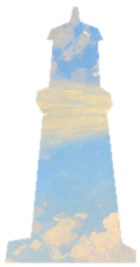
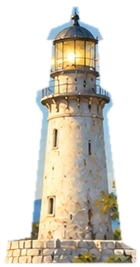
Correct lighthouse artwork crop and its home destination

diff --git a/public/raising.html b/public/raising.html
@@ -1,3 +1,3 @@
 <!doctype html><html lang="es" class="atlas-html"><head><meta charset="utf-8"><meta name="viewport" content="width=device-width,initial-scale=1"><title>Startup Scouting</title><link rel="stylesheet" href="/styles.css"><style>.role-fit{margin-top:44px;max-width:670px;border-top:1px solid #b69a67;padding-top:22px}.role-fit p{color:#aaa69f;font-size:15px;line-height:1.65;margin:0 0 12px}.role-fit p b{color:#e9e5dc;font-weight:400}.founder-screen{margin-top:34px;max-width:670px}.founder-screen summary{cursor:pointer;color:#b69a67;font-size:13px;letter-spacing:.06em}.fs-form{display:grid;gap:10px;margin-top:16px}.fs-form label{font-size:11px;letter-spacing:.12em;text-transform:uppercase;color:#77736d}.fs-form input[type=text],.fs-form input[type=url],.fs-form textarea{background:#171713;border:1px solid #373630;color:#e9e5dc;padding:11px 13px;font-size:15px;border-radius:0}.fs-form input[type=file]{color:#aaa69f;font-size:13px}.fs-form button{margin-top:8px;background:#b69a67;color:#11110f;border:0;padding:13px 22px;font-size:15px;cursor:pointer}.fs-form .form-note{font-size:13px;color:#c2a24a;min-height:18px;margin:0}.role-tools{margin-top:26px;max-width:670px}.role-tools a{display:flex;align-items:baseline;gap:20px;padding:15px 0;border-bottom:1px solid rgba(233,229,220,.16);color:#b69a67;text-decoration:none;font:400 18px Georgia,serif}.role-tools a:first-child{border-top:1px solid rgba(233,229,220,.16)}.role-tools a .num{color:#77736d;font:400 11px Arial,sans-serif;letter-spacing:.12em;flex:0 0 26px}.role-tools a:hover .num{color:#b69a67}.role-tools a:hover .num+span{text-decoration:underline}</style><link rel="stylesheet" href="/site-navigation.css?v=1">
 <link rel="stylesheet" href="/painted-landing.css?v=2"><link rel="icon" type="image/svg+xml" href="/favicon.svg"><link rel="stylesheet" href="/painted-atlas.css?v=4"><link rel="stylesheet" href="/art-direction.css?v=2"></head><body class="atlas painted-landing gateway-page role-page" data-role="founder"><main class="gateway"><nav><a id="role-back" href="/?lang=es#entry">← Elegir de nuevo</a><span>Startup Scouting</span></nav><section><p id="role-k">PARA FOUNDERS</p><h1 id="role-h">Tu idea. Tu siguiente paso.</h1><p class="role-copy" id="role-p">Pon a prueba lo que construyes y decide cómo seguir. Con ronda o sin ella.</p><a class="role-cta" id="role-cta" href="/founder-intake.html?lang=es">Empezar por aquí →</a><details class="more-context founder-screen"><summary><span id="fs-sum">Análisis de web y deck: en pruebas</span></summary><form id="fscreen-form" class="fs-form"><label for="fs-url" id="fs-l-url">Web de tu startup</label><input disabled type="text" id="fs-url" placeholder="https://www.tustartup.com" required /><label for="fs-deck" id="fs-l-deck">Pitch deck (PDF, opcional)</label><input disabled type="file" id="fs-deck" accept="application/pdf,.pdf" /><label for="fs-li" id="fs-l-li">Tu LinkedIn (opcional)</label><input disabled type="url" id="fs-li" placeholder="https://www.linkedin.com/in/..." /><label for="fs-cx" id="fs-l-cx">Contexto adicional (opcional)</label><textarea disabled id="fs-cx" rows="3"></textarea><button disabled type="submit" id="fs-go">Analizar mi startup</button><p class="form-note" id="fs-note"></p></form></details><div class="role-tools"><a href="/valoracion"><span class="num">01</span><span>Valorar mi startup</span></a><a href="/red-team-idea"><span class="num">02</span><span>Poner a prueba mi idea</span></a><a href="/empleos"><span class="num">03</span><span>Empleo en startups</span></a></div><div class="role-fit" id="role-fit" hidden><p id="fit-yes"></p><p id="fit-no"></p></div></section></main><script src="/role-landing.js?v=5"></script><script src="/site-navigation.js?v=1"></script>
-<script src="/painted-atlas.js?v=5"></script><script src="/art-direction.js?v=2"></script></body></html>
+<script src="/painted-atlas.js?v=5"></script><script src="/art-direction.js?v=3"></script></body></html>

diff --git a/public/investor-map.html b/public/investor-map.html
@@ -1,3 +1,3 @@
 <!doctype html><html lang="es" class="atlas-html"><head><meta charset="utf-8"><meta name="viewport" content="width=device-width,initial-scale=1"><title>Startup Scouting</title><link rel="stylesheet" href="/styles.css"><link rel="stylesheet" href="/site-navigation.css?v=1">
 <link rel="icon" type="image/svg+xml" href="/favicon.svg"><link rel="stylesheet" href="/painted-atlas.css?v=4"><link rel="stylesheet" href="/art-direction.css?v=2"></head><body class="atlas imap-page"><main class="imap-wrap"><nav class="wyi-nav"><a href="/">Startup Scouting</a><span>FOUNDER DESK</span><div><button data-lang="es" class="active">ES</button><span>/</span><button data-lang="en">EN</button></div></nav><div class="imap-stepbar"><span id="step-label">01 / 04 · TU RONDA</span><button id="step-back" hidden>← Atrás</button></div><header class="imap-hero wizard-s0"><p id="imap-kicker"></p><h1 id="imap-title"></h1><p id="imap-lede"></p></header><section class="imap-example wizard-s0"><p>EJEMPLO DE RESULTADO · B2B SAAS · SEED · ESPAÑA</p><h2>7 inversores compatibles.</h2><div><span>3 pruebas antes de contactar</span><span>1 posible conflicto de cartera a revisar</span><span>Fuentes enlazadas</span></div></section><section class="imap-inputs wizard-s0"><label><span id="l-vertical"></span><select id="vertical"><option>B2B SaaS</option><option>Fintech</option><option>Consumer</option><option>Marketplace</option><option>Deeptech</option><option>AI</option></select></label><label><span id="l-stage"></span><select id="stage"><option>Pre-seed</option><option selected>Seed</option><option>Series A</option></select></label><label><span id="l-geo"></span><select id="geo"><option>España</option><option>Europa</option><option>LatAm</option></select></label><label><span id="l-raise"></span><input id="raise" value="€1m" maxlength="20"></label></section><button class="wizard-next wizard-s0" id="to-readiness">Ver mi preparación →</button><section class="founder-proof wizard-s1" id="founder-proof"></section><div class="wizard-stage-action wizard-s1"><button class="wizard-next" id="to-matches">Ver inversores compatibles →</button></div><section class="imap-head wizard-s2"><h2 id="imap-result-title"></h2><p id="imap-rule"></p></section><section id="investor-list" class="imap-list wizard-s2"></section><div class="wizard-stage-action wizard-s2"><button class="wizard-next" id="to-takeaway">Llevarme el resultado →</button></div><section class="imap-actions wizard-s3"><div><h3 id="action-title">Llévate el resultado.</h3><p id="action-copy">Compártelo o descarga la checklist antes de contactar.</p></div><div class="imap-buttons"><button id="share-result">Compartir resultado</button><button id="download-checklist">Descargar checklist</button></div></section><section class="imap-email wizard-s3"><div><h3>¿Quieres que ampliemos el mapa?</h3><p>Deja tu email después de ver el resultado. Es opcional.</p></div><form id="lead-form"><input id="lead-email" type="email" placeholder="tu@email.com" required><button>Apuntarme →</button></form><small id="lead-status">Solo para novedades del mapa. Sin envío automático a inversores.</small></section><section class="seo-links wizard-s3"><a href="/founders/seed/b2b-saas/espana">Seed B2B SaaS España</a><a href="/founders/pre-seed/fintech/latam">Pre-seed Fintech LatAm</a><a href="/founders/series-a/ai/europa">Series A AI Europa</a></section><footer class="imap-method wizard-s3" id="imap-method"></footer></main><script src="/investor-map.js"></script><script src="/site-navigation.js?v=1"></script>
-<script src="/painted-atlas.js?v=5"></script><script src="/art-direction.js?v=2"></script></body></html>
+<script src="/painted-atlas.js?v=5"></script><script src="/art-direction.js?v=3"></script></body></html>

diff --git a/public/index.html b/public/index.html
@@ -1,3 +1,3 @@
 <!doctype html><html lang="es" class="atlas-html"><head><meta charset="utf-8"><meta name="viewport" content="width=device-width,initial-scale=1"><title>Startup Scouting</title><meta name="description" content="Análisis para inversores. Encaje de capital para startups."><link rel="stylesheet" href="/styles.css"><link rel="stylesheet" href="/site-navigation.css?v=1">
 <link rel="stylesheet" href="/painted-landing.css?v=2"><link rel="icon" type="image/svg+xml" href="/favicon.svg"><link rel="stylesheet" href="/painted-atlas.css?v=4"><link rel="stylesheet" href="/boat-preview.css?v=7"><link rel="stylesheet" href="/art-direction.css?v=2"></head><body class="atlas painted-landing gateway-page boat-preview"><section class="approach" aria-label="Startup Scouting"><div class="approach-frame"><svg class="water-filter" aria-hidden="true" width="0" height="0"><defs><filter id="water-motion" x="-5%" y="-5%" width="110%" height="110%"><feTurbulence type="fractalNoise" baseFrequency=".012 .055" numOctaves="2" seed="8" result="waves"><animate attributeName="baseFrequency" dur="8s" values=".012 .055;.015 .065;.012 .055" repeatCount="indefinite"/></feTurbulence><feDisplacementMap in="SourceGraphic" in2="waves" scale="13" xChannelSelector="R" yChannelSelector="G"/></filter></defs></svg><div class="approach-coast"><i class="coast-light" aria-hidden="true"></i></div><div class="approach-lighthouse"><i class="coast-light" aria-hidden="true"></i></div><div class="approach-wash"></div><div class="approach-boat"><svg class="boat-vessel" aria-hidden="true" viewBox="0 0 260 230"><defs><filter id="boat-paint"><feTurbulence type="fractalNoise" baseFrequency=".07" numOctaves="3" result="noise"/><feDisplacementMap in="SourceGraphic" in2="noise" scale="1.7"/></filter></defs><g filter="url(#boat-paint)"><path d="M16 187Q110 202 238 177L212 208Q122 222 44 209Z" fill="#293a32"/><path d="M42 192Q130 204 224 185" stroke="#a99363" stroke-width="5" fill="none"/><path d="M137 22 140 192" stroke="#584e37" stroke-width="5"/><path d="M132 31 46 169Q91 161 132 173Z" fill="#e5d9b9" stroke="#b5a27b" stroke-width="2"/><path d="M145 54 216 163 145 169Z" fill="#bdb391" stroke="#8a8768" stroke-width="2"/><path d="M136 24 155 30 136 36" fill="#a26c42"/><path d="M12 215Q97 233 237 213" fill="none" stroke="#e9e1ca" stroke-width="3" opacity=".6"/></g></svg><span class="boat-wake" aria-hidden="true"></span></div><nav class="approach-top"><span>Startup Scouting</span><a href="#entry">Entrar</a></nav><div class="approach-caption"><p id="approach-kicker">STARTUP SCOUTING</p><h1 class="approach-instruction"><span id="approach-line-one">Ideas que buscan capital.</span><br><em id="approach-line-two">Capital que busca ideas.</em></h1><span id="approach-scroll">NAVEGA HACIA LA COSTA</span></div></div></section><main id="entry" class="gateway gate-choice"><nav><span>Startup Scouting</span><div><button data-lang="es" class="active">ES</button><span>/</span><button data-lang="en">EN</button></div></nav><section><p id="gate-kicker">ELIGE TU LADO</p><h2 id="gate-title">¿Eres inversor o founder?</h2><div class="gate-list"><a href="/for-investors" id="bubble-investor"><small>01</small><b>Soy inversor</b><span>→</span></a><a href="/raising" id="bubble-founder"><small>02</small><b>Founder</b><span>→</span></a></div></section></main><script src="/gateway.js?v=6"></script><script src="/site-navigation.js?v=1"></script>
-<script src="/painted-atlas.js?v=5"></script><script src="/boat-preview.js?v=4"></script><script src="/art-direction.js?v=2"></script></body></html>
+<script src="/painted-atlas.js?v=5"></script><script src="/boat-preview.js?v=4"></script><script src="/art-direction.js?v=3"></script></body></html>

diff --git a/public/boat-preview.html b/public/boat-preview.html
@@ -1,3 +1,3 @@
 <!doctype html><html lang="es" class="atlas-html"><head><meta charset="utf-8"><meta name="viewport" content="width=device-width,initial-scale=1"><title>Startup Scouting</title><meta name="description" content="Análisis para inversores. Encaje de capital para startups."><link rel="stylesheet" href="/styles.css"><link rel="stylesheet" href="/site-navigation.css?v=1">
 <link rel="stylesheet" href="/painted-landing.css?v=2"><link rel="icon" type="image/svg+xml" href="/favicon.svg"><link rel="stylesheet" href="/painted-atlas.css?v=4"><link rel="stylesheet" href="/boat-preview.css?v=7"><link rel="stylesheet" href="/art-direction.css?v=2"></head><body class="atlas painted-landing gateway-page boat-preview"><section class="approach" aria-label="Prueba de transición barco a faro"><div class="approach-frame"><svg class="water-filter" aria-hidden="true" width="0" height="0"><defs><filter id="water-motion" x="-5%" y="-5%" width="110%" height="110%"><feTurbulence type="fractalNoise" baseFrequency=".012 .055" numOctaves="2" seed="8" result="waves"><animate attributeName="baseFrequency" dur="8s" values=".012 .055;.015 .065;.012 .055" repeatCount="indefinite"/></feTurbulence><feDisplacementMap in="SourceGraphic" in2="waves" scale="13" xChannelSelector="R" yChannelSelector="G"/></filter></defs></svg><div class="approach-coast"><i class="coast-light" aria-hidden="true"></i></div><div class="approach-lighthouse"><i class="coast-light" aria-hidden="true"></i></div><div class="approach-wash"></div><div class="approach-boat"><svg class="boat-vessel" aria-hidden="true" viewBox="0 0 260 230"><defs><filter id="boat-paint"><feTurbulence type="fractalNoise" baseFrequency=".07" numOctaves="3" result="noise"/><feDisplacementMap in="SourceGraphic" in2="noise" scale="1.7"/></filter></defs><g filter="url(#boat-paint)"><path d="M16 187Q110 202 238 177L212 208Q122 222 44 209Z" fill="#293a32"/><path d="M42 192Q130 204 224 185" stroke="#a99363" stroke-width="5" fill="none"/><path d="M137 22 140 192" stroke="#584e37" stroke-width="5"/><path d="M132 31 46 169Q91 161 132 173Z" fill="#e5d9b9" stroke="#b5a27b" stroke-width="2"/><path d="M145 54 216 163 145 169Z" fill="#bdb391" stroke="#8a8768" stroke-width="2"/><path d="M136 24 155 30 136 36" fill="#a26c42"/><path d="M12 215Q97 233 237 213" fill="none" stroke="#e9e1ca" stroke-width="3" opacity=".6"/></g></svg><span class="boat-wake" aria-hidden="true"></span></div><nav class="approach-top"><span>Startup Scouting</span><a href="#entry">Entrar / Enter</a></nav><div class="approach-caption"><p>PRUEBA VISUAL · VISUAL PREVIEW</p><p class="approach-instruction">Navega hacia la costa.<br><em>El faro te espera.</em></p><span>SCROLL ↓</span></div></div></section><main id="entry" class="gateway gate-choice"><nav><span>Startup Scouting</span><div><button data-lang="es" class="active">ES</button><span>/</span><button data-lang="en">EN</button></div></nav><section><p id="gate-kicker">ELIGE TU LADO</p><h1 id="gate-title">¿Eres inversor o founder?</h1><div class="gate-list"><a href="/for-investors" id="bubble-investor"><small>01</small><b>Soy inversor</b><span>→</span></a><a href="/raising" id="bubble-founder"><small>02</small><b>Founder</b><span>→</span></a></div></section></main><script src="/gateway.js?v=6"></script><script src="/site-navigation.js?v=1"></script>
-<script src="/painted-atlas.js?v=5"></script><script src="/boat-preview.js?v=4"></script><script src="/art-direction.js?v=2"></script></body></html>
+<script src="/painted-atlas.js?v=5"></script><script src="/boat-preview.js?v=4"></script><script src="/art-direction.js?v=3"></script></body></html>

diff --git a/public/art-direction.js b/public/art-direction.js
@@ -27,7 +27,7 @@ function cleanNavigation(){
  document.querySelectorAll('a,button,summary').forEach(el=>{if(el.closest('svg'))return;const walker=document.createTreeWalker(el,NodeFilter.SHOW_TEXT);let n;while(n=walker.nextNode()){const clean=n.nodeValue.replace(/[←→↗↘↙↖↓↑↔‹›»«]/g,'').replace(/ {2,}/g,' ');if(clean!==n.nodeValue)n.nodeValue=clean;}const label=el.getAttribute('aria-label');if(label&&/[←→↗↘↙↖↓↑]/.test(label))el.setAttribute('aria-label',label.replace(/[←→↗↘↙↖↓↑]/g,''));});
  const navSelector='.gateway nav a,.back-link,.quiet-nav a,.wyi-nav a,.memo-topbar>a,.top>a,.wordmark,.cm-left,.ss-cross-navigation a,.role-cta';
  document.querySelectorAll('a').forEach(a=>{let path;try{path=new URL(a.href).pathname;}catch{return;}if(['/','/raising','/for-investors'].includes(path)&&/volver|inicio|startup scouting|home|back|elegir de nuevo/i.test(a.textContent))a.classList.add('art-home-link');});
- document.querySelectorAll(navSelector+',.art-home-link').forEach(a=>{if(a.tagName!=='A'||a.closest('.art-index,.approach-top')||a.querySelector('.art-nav-image'))return;a.querySelector('.atlas-symbol')?.remove();a.classList.add('art-nav');let path;try{path=new URL(a.href).pathname;}catch{return;}a.prepend(object(a.matches('.wordmark,.cm-left')||a.closest('.role-page')&&a.id!=='role-back'&&a.closest('nav')?'lighthouse':a.matches('.back-link,.art-home-link')||path==='/'?'boat':objectFor(path),'art-nav-image'));a.querySelector('.wm-sq')?.remove();});
+ document.querySelectorAll(navSelector+',.art-home-link').forEach(a=>{if(a.tagName!=='A'||a.closest('.art-index,.approach-top')||a.querySelector('.art-nav-image'))return;a.querySelector('.atlas-symbol')?.remove();a.classList.add('art-nav');let path;try{path=new URL(a.href).pathname;}catch{return;}a.prepend(object(a.matches('.wordmark,.cm-left')||a.closest('.role-page')&&a.id!=='role-back'&&a.closest('nav')?'lighthouse':a.matches('.back-link,.art-home-link')||path==='/'?'boat':objectFor(path),'art-nav-image'));a.querySelector('.wm-sq')?.remove();if(a.closest('.role-page')&&a.closest('nav')&&a.id!=='role-back')a.href='/?lang='+(lang()?'en':'es');});
  document.querySelectorAll('.gate-list a').forEach(a=>{if(a.querySelector('.art-choice-object'))return;a.querySelector('span')?.remove();a.prepend(object(a.id==='bubble-founder'?'boat':'compass','art-choice-object'));});
 }
 function alignLamp(){const coast=document.querySelector('.approach-coast'),beam=coast?.querySelector('.coast-light');if(!beam)return;const w=coast.clientWidth,h=coast.clientHeight,mobile=innerWidth<=760,scale=mobile?h*.66/804:Math.max(w/1429,h/804),iw=1429*scale,ih=804*scale;Object.assign(beam.style,{inset:'auto',width:iw+'px',height:ih+'px',left:((w-iw)*(mobile?.77:.74))+'px',top:(mobile?h-ih:(h-ih)/2)+'px'});}alignLamp();window.addEventListener('resize',alignLamp);

diff --git a/public/next10.html b/public/next10.html
@@ -1,3 +1,3 @@
 <!doctype html><html lang="es" class="atlas-html"><head><meta charset="utf-8"><meta name="viewport" content="width=device-width,initial-scale=1"><title>Startup Scouting</title><link rel="stylesheet" href="/styles.css"><link rel="stylesheet" href="/old-money.css"><link rel="stylesheet" href="/site-navigation.css?v=1">
 <link rel="icon" type="image/svg+xml" href="/favicon.svg"><link rel="stylesheet" href="/painted-atlas.css?v=4"><link rel="stylesheet" href="/art-direction.css?v=2"></head><body class="atlas vc-workbench"><main class="vc-wrap"><div class="memo-topbar"><a class="back-link" href="/">← Startup Scouting</a><div class="lang-switch"><button class="lang-btn active" data-lang="es">ES</button><span>/</span><button class="lang-btn" data-lang="en">EN</button></div></div><header class="next-hero"><div><p class="vc-eyebrow">SOURCING DESK · 12 SEP 2026</p><h1 id="next-title">Los próximos <em>10.</em></h1><p id="next-lede"></p></div><aside><b>Regla de la lista</b><p id="next-rule"></p></aside></header><section class="vc-toolbar"><input id="next-search" type="search" placeholder="Buscar compañía o vertical"><div id="next-filters"></div></section><section class="next-ledger"><div class="ledger-head"><span>Compañía</span><span>Señal verificable</span><span>Hueco / siguiente comprobación</span></div><div id="next-list"></div></section><footer class="vc-method"><b>METODOLOGÍA</b><p id="next-method"></p><a id="portfolio-link" target="_blank" rel="noopener">Cartera publicada comprobada ↗</a></footer></main><script src="/next10.js"></script><script src="/site-navigation.js?v=1"></script>
-<script src="/painted-atlas.js?v=5"></script><script src="/art-direction.js?v=2"></script></body></html>
+<script src="/painted-atlas.js?v=5"></script><script src="/art-direction.js?v=3"></script></body></html>

diff --git a/public/red-team.html b/public/red-team.html
@@ -1,3 +1,3 @@
 <!doctype html><html lang="es" class="atlas-html"><head><meta charset="utf-8"><meta name="viewport" content="width=device-width,initial-scale=1"><title>Startup Scouting</title><link rel="stylesheet" href="/styles.css"><link rel="stylesheet" href="/site-navigation.css?v=1">
 <link rel="icon" type="image/svg+xml" href="/favicon.svg"><link rel="stylesheet" href="/painted-atlas.css?v=4"><link rel="stylesheet" href="/art-direction.css?v=2"></head><body class="atlas lux-page"><main class="quiet-wrap"><nav class="quiet-nav"><a href="/">Startup Scouting</a><div><button class="lang-btn active" data-lang="es">ES</button><span>/</span><button class="lang-btn" data-lang="en">EN</button></div></nav><header class="quiet-hero"><h1>Spherag</h1><p id="quiet-case"></p><p id="quiet-evidence"></p></header><section id="quiet-risks"></section><footer id="quiet-links"></footer></main><script src="/red-team.js"></script><script src="/site-navigation.js?v=1"></script>
-<script src="/painted-atlas.js?v=5"></script><script src="/art-direction.js?v=2"></script></body></html>
+<script src="/painted-atlas.js?v=5"></script><script src="/art-direction.js?v=3"></script></body></html>

diff --git a/public/brief.html b/public/brief.html
@@ -3,4 +3,4 @@
 <body class="atlas brief-page"><main class="wrap"><div class="memo-topbar"><a class="back-link" href="/">&larr; Startup Scouting</a><div class="memo-actions"><button class="ic-print" onclick="print()">Imprimir / PDF</button><div class="lang-switch"><button class="lang-btn" data-lang="es">ES</button><span>/</span><button class="lang-btn" data-lang="en">EN</button></div></div></div>
 <section class="brief-pick"><div><p>MEETING INTELLIGENCE · 01</p><h1>Antes de la call,<br><em>lo esencial.</em></h1></div><div><label id="brief-label" for="brief-company"></label><select id="brief-company"></select><button id="brief-build"></button></div></section>
 <section id="brief-doc"><p class="muted brief-loading">Preparando brief...</p></section></main><script src="/brief.js"></script><script src="/site-navigation.js?v=1"></script>
-<script src="/painted-atlas.js?v=5"></script><script src="/art-direction.js?v=2"></script></body></html>
+<script src="/painted-atlas.js?v=5"></script><script src="/art-direction.js?v=3"></script></body></html>

diff --git a/public/would-you-invest.html b/public/would-you-invest.html
@@ -1,3 +1,3 @@
 <!doctype html><html lang="es" class="atlas-html"><head><meta charset="utf-8"><meta name="viewport" content="width=device-width,initial-scale=1"><title>Startup Scouting</title><link rel="stylesheet" href="/styles.css"><link rel="stylesheet" href="/site-navigation.css?v=1">
 <link rel="icon" type="image/svg+xml" href="/favicon.svg"><link rel="stylesheet" href="/painted-atlas.css?v=4"><link rel="stylesheet" href="/art-direction.css?v=2"></head><body class="atlas wyi-page"><main class="wyi-wrap"><nav class="wyi-nav"><a href="/">Startup Scouting</a><span id="case-progress"></span><div><button data-lang="es" class="active">ES</button><span>/</span><button data-lang="en">EN</button></div></nav><section id="wyi-case"></section></main><script src="/would-you-invest.js"></script><script src="/site-navigation.js?v=1"></script>
-<script src="/painted-atlas.js?v=5"></script><script src="/art-direction.js?v=2"></script></body></html>
+<script src="/painted-atlas.js?v=5"></script><script src="/art-direction.js?v=3"></script></body></html>

diff --git a/public/regulatory.html b/public/regulatory.html
@@ -5,4 +5,4 @@
 <section class="rw-bar"><div><strong id="rw-date"></strong><span id="rw-count"></span></div><div id="rw-filters" class="rw-filters"></div></section>
 <section class="rw-layout"><main id="rw-feed" class="rw-feed"></main><aside><section class="rw-watch"><h2 id="rw-watch-title"></h2><ul id="rw-watch-list"></ul></section><section class="rw-method"><h2 id="rw-method-title"></h2><p id="rw-method"></p></section></aside></section>
 <footer class="rw-footer"><span>BOE · CNMC · MITECO · OMIE · REE</span><p id="rw-footer"></p></footer></main><script src="/regulatory.js"></script><script src="/site-navigation.js?v=1"></script>
-<script src="/painted-atlas.js?v=5"></script><script src="/art-direction.js?v=2"></script></body></html>
+<script src="/painted-atlas.js?v=5"></script><script src="/art-direction.js?v=3"></script></body></html>

diff --git a/public/dealflow.html b/public/dealflow.html
@@ -5,4 +5,4 @@
 <section class="df-controls"><input id="df-search" type="search"><div id="df-filters" class="df-filters"></div><button id="df-view" class="df-view"></button></section>
 <section id="df-board" class="df-board"></section><section id="df-table-wrap" class="df-table-wrap hidden"><table class="df-table"><thead id="df-thead"></thead><tbody id="df-tbody"></tbody></table></section>
 <footer class="df-note"><span>LIVE DATA</span><p id="df-note"></p></footer></main><script src="/dealflow.js"></script><script src="/site-navigation.js?v=1"></script>
-<script src="/painted-atlas.js?v=5"></script><script src="/art-direction.js?v=2"></script></body></html>
+<script src="/painted-atlas.js?v=5"></script><script src="/art-direction.js?v=3"></script></body></html>

diff --git a/public/market-map.html b/public/market-map.html
@@ -10,4 +10,4 @@
 <section id="mm-board" class="mm-board"><p class="muted">Cargando mapa...</p></section>
 <section class="mm-notes"><div><span>METODOLOGÍA</span><p id="mm-method"></p></div><div><span>FUENTES</span><p id="mm-sources"></p></div></section>
 </main><script src="/market-map.js"></script><script src="/site-navigation.js?v=1"></script>
-<script src="/painted-atlas.js?v=5"></script><script src="/art-direction.js?v=2"></script></body></html>
+<script src="/painted-atlas.js?v=5"></script><script src="/art-direction.js?v=3"></script></body></html>
